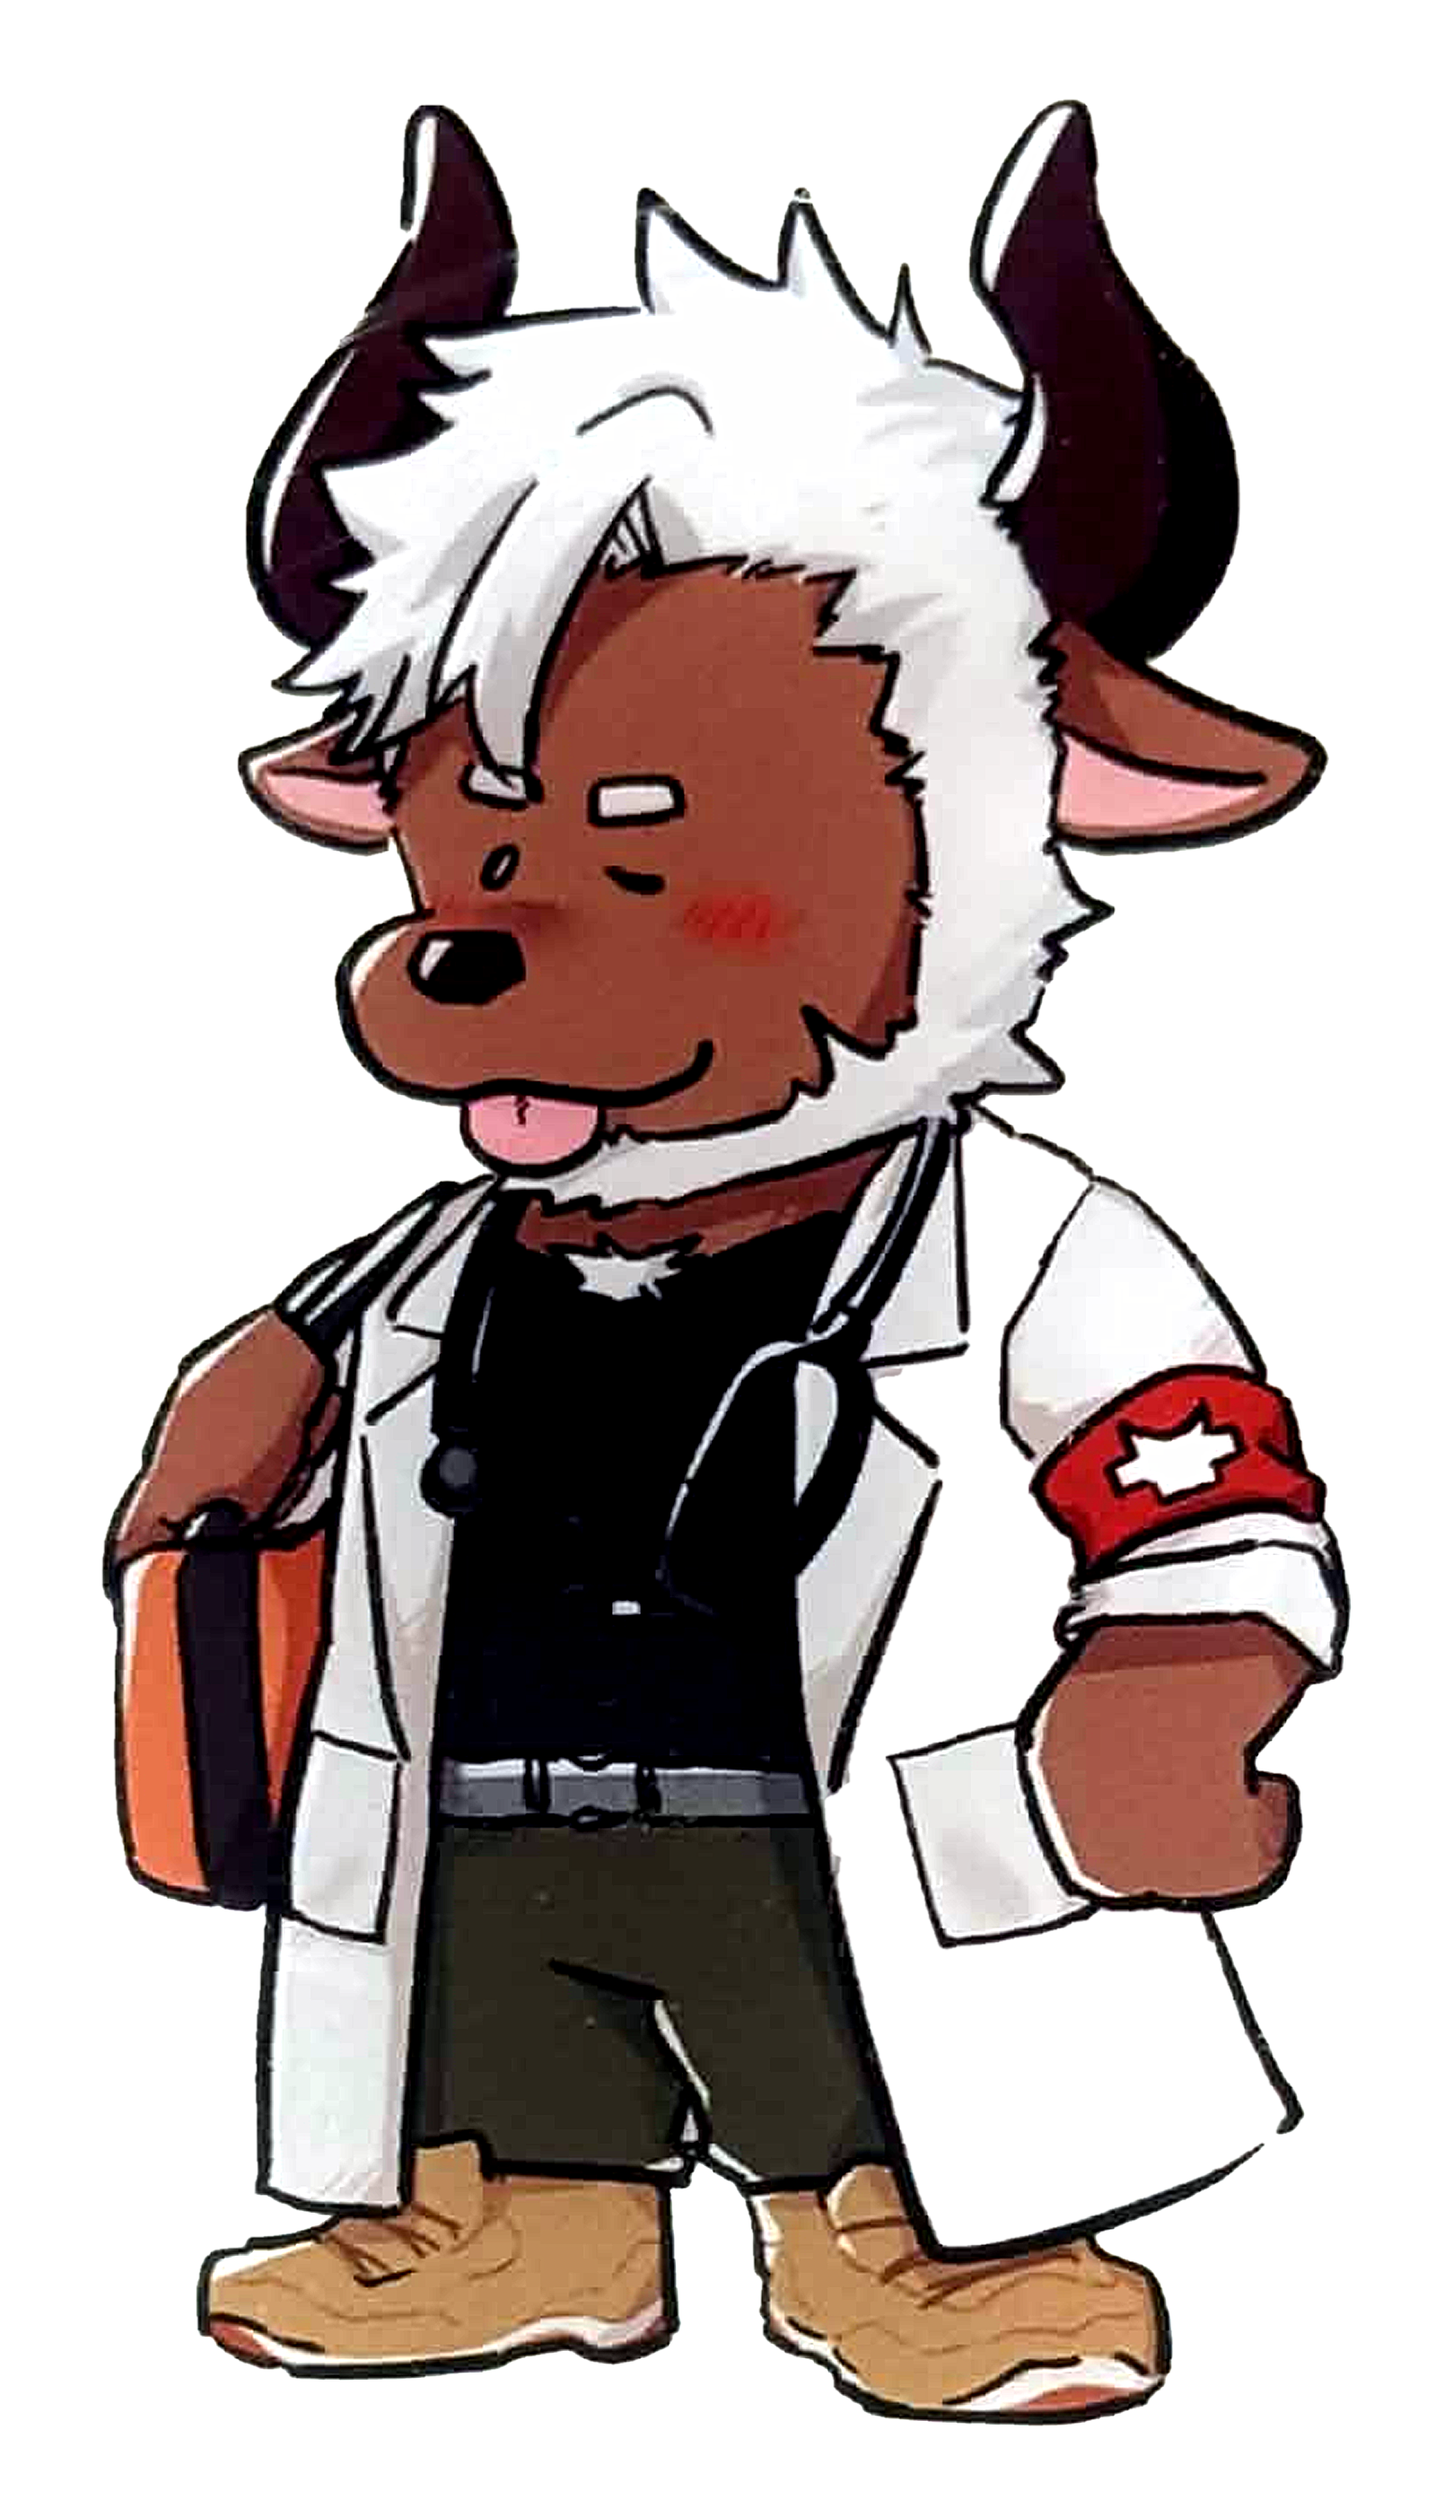
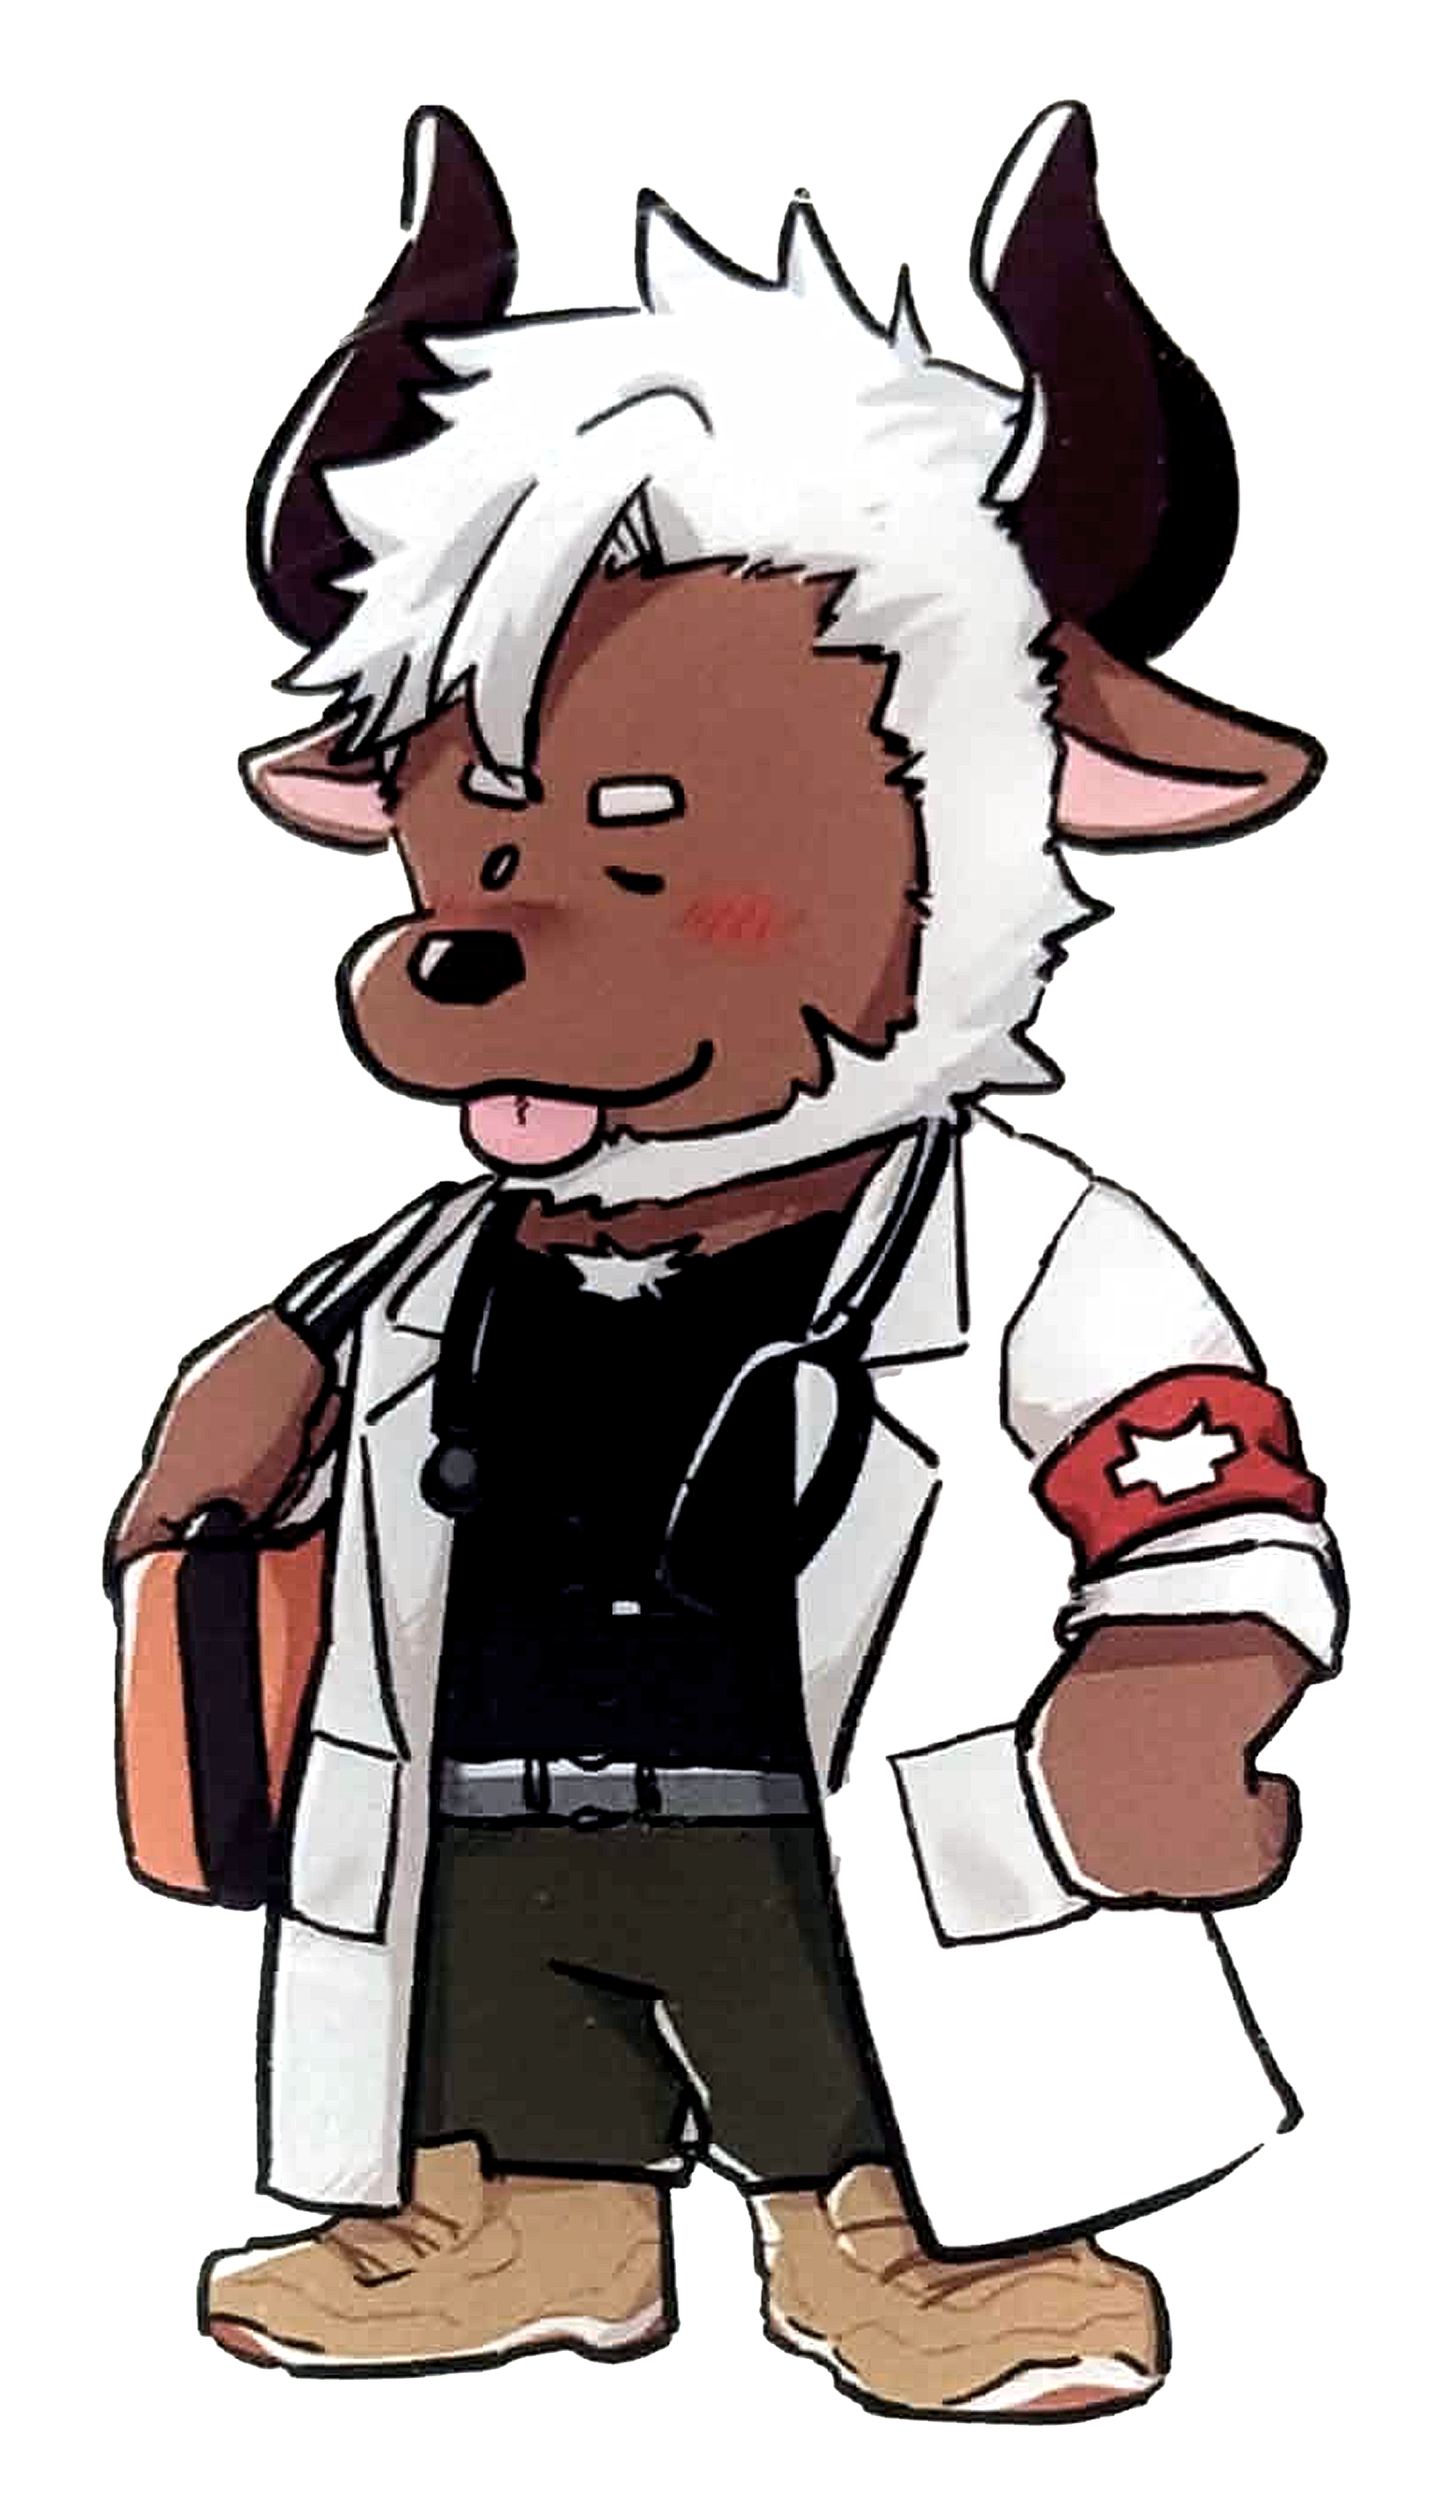
Tone down colours on the five new standee textures
Photo-mode extraction boosted saturation while correcting white balance,
so che, Peisuky, Harcy and Kulas looked much more vivid than the real
prints. Saturation is scaled to 75% and the extractor gains a
--saturation option for future styles.

diff --git a/tools/extract_acrylic.py b/tools/extract_acrylic.py
@@ -47,6 +47,8 @@ def main():
     ap.add_argument("--base", help="底座，例如 disc:45:5（圓盤 直徑 45mm 厚 5mm）")
     ap.add_argument("--tab-mm", type=float, default=16, help="插進底座的插腳寬度（mm，有 --base 才用）")
     ap.add_argument("--white", type=float, default=246, help="photo 模式：白色毛校正後的亮度")
+    ap.add_argument("--saturation", type=float, default=1.0,
+                    help="photo 模式：彩度倍率。色彩濃的角色建議 0.75（校正對比時彩度會被一起拉高，容易過豔）")
     ap.add_argument("--thickness-mm", type=float, default=10.0, help="壓克力厚度（mm）")
     ap.add_argument("--dark", type=int, default=95, help="灰階低於此值算黑線")
     ap.add_argument("--base-gray", type=float, default=214, help="灰底提亮後的目標亮度")
@@ -129,6 +131,10 @@ def main():
         bal = np.clip((bal - lo) * 255.0 / (255.0 - lo), 0, 255)
         sharp = cv2.addWeighted(bal, 1.5, cv2.GaussianBlur(bal, (0, 0), 1.6), -0.5, 0)
         out[..., :3] = np.clip(sharp, 0, 255).astype(np.uint8)
+        if a.saturation != 1.0:
+            hsv2 = cv2.cvtColor(out[..., :3], cv2.COLOR_BGR2HSV).astype(np.float32)
+            hsv2[..., 1] *= a.saturation
+            out[..., :3] = cv2.cvtColor(np.clip(hsv2, 0, 255).astype(np.uint8), cv2.COLOR_HSV2BGR)
         print(f"white point {wp.round(1)}")
     out[..., 3] = inside.astype(np.uint8) * 255 if a.mode == "photo" else (labels > 0).astype(np.uint8) * 255
     # 邊緣反鋸齒
